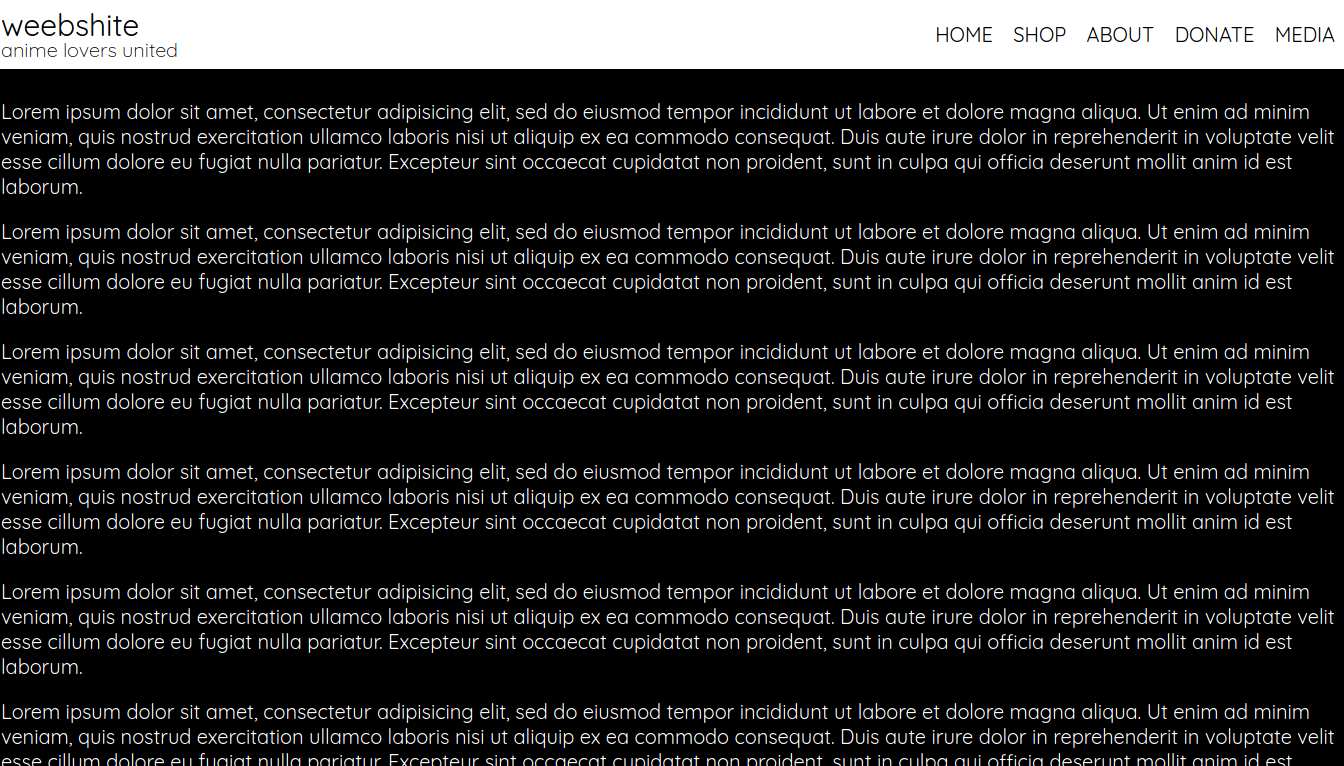
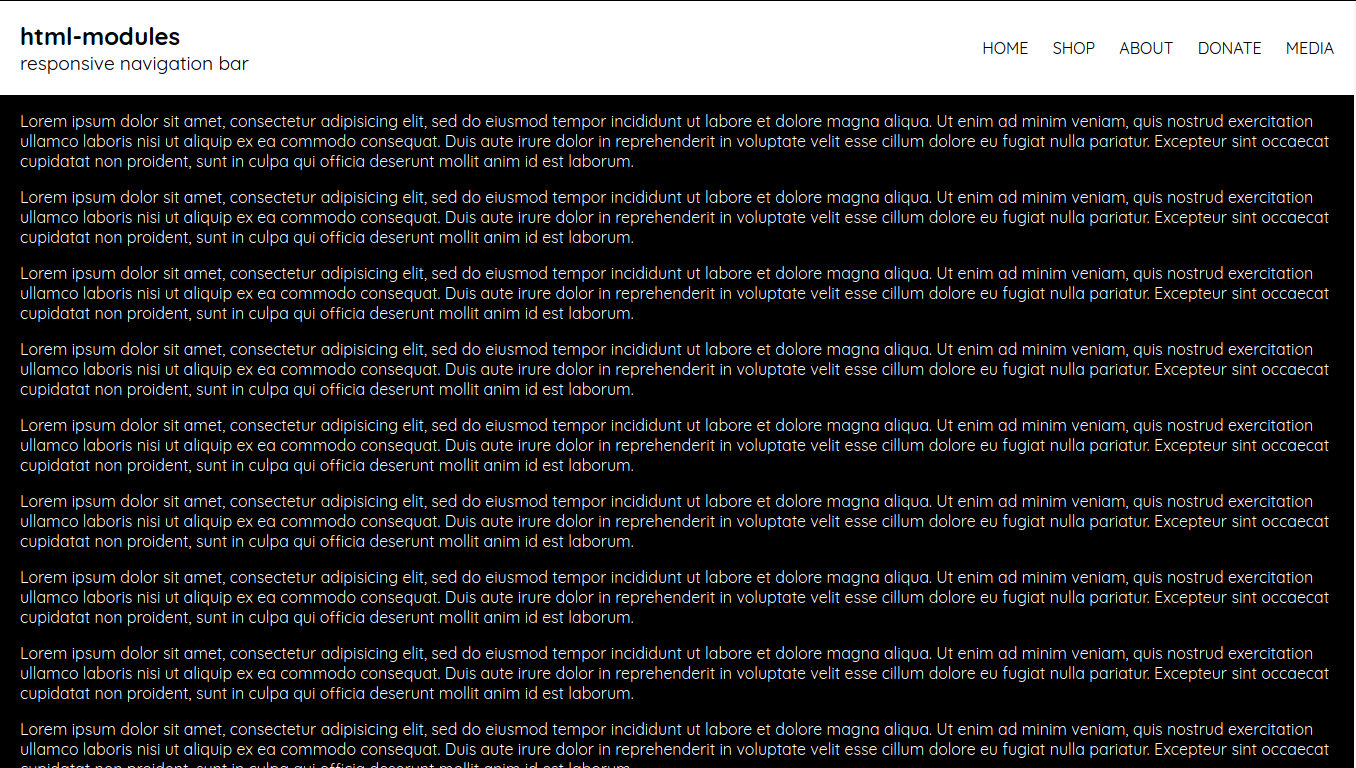
flexbox cause its awesome

diff --git a/navbar/styles.css b/navbar/styles.css
@@ -19,131 +19,124 @@
 * Authored by: Asif Zaman <zero362001@gmail.com>
 */
 
-.sticky {
-	position: sticky;
-	top: 0;
-}
-
 body {
-	background: black;
-	font-size: 20px;
-	font-family: 'Quicksand';
-	color: white;
-	padding: 0;
 	margin: 0;
+	font-family: 'Quicksand';
+	background: black;
+	color: white;
 }
 
 header {
-	position: sticky;
-	top: 0;
-	padding: 10px;
 	background: white;
 	color: black;
-	height: auto;
-	line-height: 1em;
+	display: flex;
+	flex-direction: row;
+	align-items: center;
+	overflow: hidden;
+}
+
+header.sticky {
+	top: 0;
+	position: sticky;
+}
+
+#title-container {
+	padding: 20px;
+	flex-grow: 1;
 }
 
 #title {
-	font-size: 30px;
-	line-height: 1em;
-	margin: 0;
-	color: black;
 	font-weight: bold;
-	text-decoration: none;
-	transition: 0.5s;
-}
-
-header a {
-	text-decoration: none;
-}
-
-#title:hover {
-	color: purple;
-	text-decoration: underline;
+	margin: 0;
+	font-size: x-large;
 }
 
 #subtitle {
-	font-size: 20px;
-	font-weight: lighter;
 	margin: 0;
+	font-size: larger;
 }
 
-nav#topnav.vertical {
-	transition: 0.5s;
-}
-
-nav#topnav.vertical ul {
-	list-style: none;
-	margin: 0;
-	padding: 20px 0 20px 0;
-}
-
-nav#topnav.vertical ul li {
-	padding: 20px 0 20px 0;
-}
-
-nav.horizontal {
-	position: absolute;
-	top: 0;
-	right: 0;
-	font-size: 20px;
-	line-height: 70px;
-}
-
-nav.horizontal ul {
-	padding: 0;
-	padding-right: 10px;
-	margin: 0;
-}
-
-nav.horizontal ul li {
-	display: inline;
-}
-
-nav a {
+header a {
 	color: black;
 	text-decoration: none;
-	padding-left: 15px;
 }
 
-nav a:hover {
+header a:hover {
 	color: purple;
 	text-decoration: underline;
 }
 
-nav a:active, a:focus {
-    border: none;
-    outline: 0;
+#topnav {
+	margin: 0;
+	transition: 1s;
+}
+
+#topnav ul {
+	list-style: none;
+}
+
+#topnav ul li {
+	display: inline-block;
+	padding-right: 20px;
+}
+
+.header-wrap {
+	flex-grow: 1;
+	display: flex;
+	flex-direction: row;
+	flex-wrap: nowrap;
+	width: 100%;
+	align-items: center;
 }
 
 #menu-button {
-	top: 0;
-	right: 0;
-	line-height: 70px;
-	padding-right: 25px;
-	padding-left: 25px;
-	position: absolute;
-	display: none;
-	color: black;
-	text-decoration: none;
 	font-family: 'iconmonstr-iconic-font';
+	background: white;
+	height: 100%;
+	display: none;
+	padding: 40px;
+	font-size: 20px;
 }
 
 #menu-button:hover {
 	background: black;
 	color: white;
-}
-
-@media screen and (max-width: 720px) {
-	#menu-button {
-		display: block;
-	}
-	nav.horizontal {
-		transition: none;
-		transform: scaleY(0);
-	}
+	text-decoration: none;
 }
 
 .content {
-	padding: 10px;
+	padding: 0 20px;
+}
+
+@media screen and (max-width: 720px) {
+	header {
+		flex-direction: column;
+		align-items: flex-start;
+	}
+	#topnav ul {
+		list-style: disc;
+		padding: 0 20px 20px;
+		margin: 0;
+	}
+	#topnav ul li {
+		display: block;
+		margin-left: 0;
+		padding: 10px 0;
+	}
+	#topnav.expanded {
+		max-height: 250px;
+	}
+	
+	#topnav.closed {
+		max-height: 0;
+	}
+	#menu-button {
+		display: block;
+	}
+}
+
+@media screen and (min-width: 721px) {
+	.header-wrap {
+		width: auto;
+	}
 }

diff --git a/navbar/index.html b/navbar/index.html
@@ -34,12 +34,15 @@
 	
 	<header id="top" class="sticky">
 		
-		<div id="title-container">
-			<a href="../"><p id="title">html-modules</p></a>
-			<p id="subtitle">responsive navigation bar</p>
+		<div class="header-wrap">
+			<div id="title-container">
+				<a href="../"><p id="title">html-modules</p></a>
+				<p id="subtitle">responsive navigation bar</p>
+			</div>
+			<a id="menu-button" href="javascript:void(0);" onclick="expandMenu()"><p id="menu-button-text" style="margin: 0; padding: 0; transition: 0.5s;">&#xe003</p></a>
 		</div>
-		
-		<nav id="topnav" class="horizontal">
+
+		<nav id="topnav" class="classic closed">
 			<ul>
 				<li><a href="">HOME</a></li>
 				<li><a href="">SHOP</a></li>
@@ -48,8 +51,6 @@
 				<li><a href="">MEDIA</a></li>
 			</ul>
 		</nav>
-		
-		<a id="menu-button" href="javascript:void(0);" onclick="expandMenu()"><p id="menu-button-text" style="margin: 0; padding: 0; transition: 0.5s;">&#xe003</p></a>
 	
 	</header>
 

diff --git a/navbar/script.js b/navbar/script.js
@@ -22,11 +22,11 @@
 function expandMenu() {
 	var nav = document.getElementById("topnav");
 	var button = document.getElementById("menu-button-text");
-	if (nav.classList.contains("horizontal")) {
-		nav.classList.replace("horizontal", "vertical");
+	if (nav.classList.contains("closed")) {
+		nav.classList.replace("closed", "expanded");
 		button.style.transform = "rotateZ(0.5turn)";
-	} else if (nav.classList.contains("vertical")) {
-		nav.classList.replace("vertical", "horizontal");
+	} else if (nav.classList.contains("expanded")) {
+		nav.classList.replace("expanded", "closed");
 		button.style.transform = "rotateZ(0turn)";
 	} else {
 		console.error("nav doesn't have a class!");
